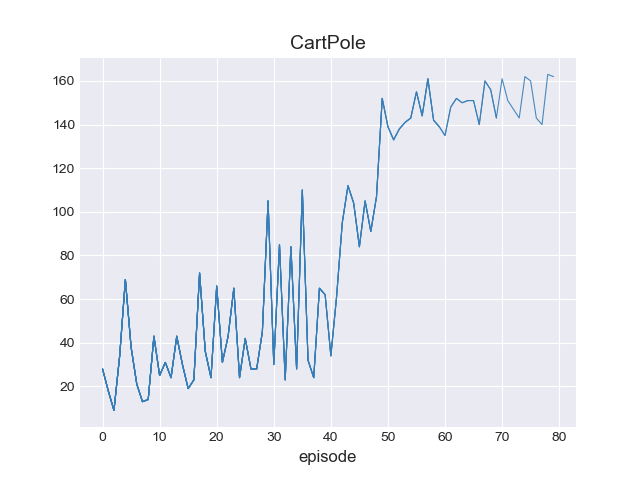
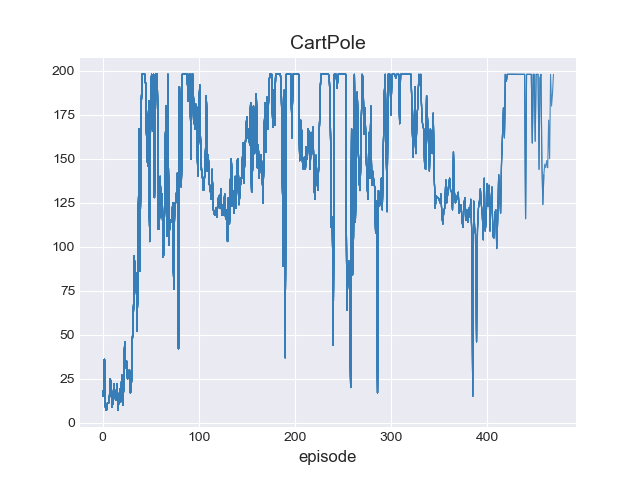
finish debugging cartpole

diff --git a/agent.py b/agent.py
@@ -1,4 +1,5 @@
 import torch
+import itertools
 from config import AgentConfig
 from memory import Memory
 from utils import plot_graph, save_weights
@@ -20,50 +21,70 @@ class Agent(AgentConfig):
         # A new episode
         while not solved:
             episode += 1
-            episode_length = 0
-            episode_reward = 0
-
+            episode_length, episode_reward = 0, 0
             self.memory.reset()
 
             # A step in an episode
             while not solved:
                 episode_length += 1
-
-                obs = torch.FloatTensor(self.memory.get_state()).to(device)
-                prob_a = self.policy_network.pi(obs)
-                reward, terminal = self.memory.step(prob_a)
+                reward, terminal = self.memory.step(self.policy_network.pi)
                 episode_reward += reward
 
                 if terminal:
                     reward_history.append(episode_reward)
                     self.finish_path(episode_length)
                     save_weights(self.policy_network)
-
                     solved = self.solve_criteria(reward_history)
                     print('episode: %.2f, last_episode length: %.2f, last_episode_reward: %.2f, '
                           'loss: %.4f, lr: %.4f' % (episode, episode_length, episode_reward, self.loss,
                                                     self.scheduler.get_lr()[0]))
+                    # print(self.memory.buffer)
+                    # print('len of memory', len(self.memory))
+                    # print('len of obs', len(self.memory.buffer['obs']))
                     break
 
             if episode % self.update_freq == 0:
                 for _ in range(self.k_epoch):
                     self.update_network()
+            # if episode == 1:
+            #     exit()
 
             if episode % self.plot_every == 0:
                 plot_graph(reward_history)
 
     def update_network(self):
-        # get ratio
-        pi = self.policy_network.pi(torch.FloatTensor(self.memory['state']).to(device))
-        new_probs_a = torch.gather(pi, 1, torch.tensor(self.memory['action']))
-        old_probs_a = torch.FloatTensor(self.memory['action_prob'])
-        ratio = torch.exp(torch.log(new_probs_a) - torch.log(old_probs_a))
+        start_idx, end_idx = 0, len(self.memory) if self.memory.step_count >= self.memory_size else self.memory.pointer
+        self.memory.align_length()
+        state = torch.FloatTensor(self.memory.get_state(start_idx=start_idx, end_idx=end_idx))
+        action = torch.LongTensor([self.memory.buffer['action'][i] for i in range(start_idx, end_idx)])
+        action_prob = torch.FloatTensor([self.memory.buffer['action_prob'][i] for i in range(start_idx, end_idx)])
+        # print(self.memory.buffer['advantage'])
+        advantage = torch.FloatTensor([self.memory.buffer['advantage'][i] for i in range(start_idx, end_idx)])
+        td_target = torch.FloatTensor([self.memory.buffer['td_target'][i] for i in range(start_idx, end_idx)])
+        # print('action shape', action.shape)
+        # print('len memory', len(self.memory))
+        # print('state shape', state.shape)
+        # print('td_target shape', self.memory.buffer['td_target'].shape)
+        # print(self.memory.buffer['terminal'])
+        # print('state', state)
 
+        # print('action', action)
+        # print('action_prob', action_prob)
+        # print('advantage', advantage)
+
+        # get ratio
+        pi = self.policy_network.pi(state)
+        new_probs_a = torch.gather(pi, 1, action)
+        old_probs_a = action_prob
+        ratio = torch.exp(torch.log(new_probs_a) - torch.log(old_probs_a))
+        # print(new_probs_a)
+        # print(old_probs_a)
+        # print(ratio)
         # surrogate loss
-        surr1 = ratio * torch.FloatTensor(self.memory['advantage'])
-        surr2 = torch.clamp(ratio, 1 - self.eps_clip, 1 + self.eps_clip) * torch.FloatTensor(self.memory['advantage'])
-        pred_v = self.policy_network.v(torch.FloatTensor(self.memory['state']).to(device))
-        v_loss = 0.5 * (pred_v - self.memory['td_target']).pow(2)  # Huber loss
+        surr1 = ratio * advantage
+        surr2 = torch.clamp(ratio, 1 - self.eps_clip, 1 + self.eps_clip) * advantage
+        pred_v = self.policy_network.v(state)
+        v_loss = 0.5 * (pred_v - td_target).pow(2)  # Huber loss
         entropy = torch.distributions.Categorical(pi).entropy()
         entropy = torch.tensor([[e] for e in entropy])
         self.loss = (-torch.min(surr1, surr2) + self.v_coef * v_loss - self.entropy_coef * entropy).mean()
@@ -73,23 +94,28 @@ class Agent(AgentConfig):
         self.optimizer.step()
         self.scheduler.step()
 
-    def finish_path(self, length):
-        reward = self.memory['reward'][-length:]
-        terminal = self.memory['terminal'][-length:]
+    def finish_path(self, episode_length):
+        # The information extracted includes start_idx but exclude end_idx
+        start_idx = self.memory.pointer - episode_length
+        end_idx = self.memory.pointer
 
-        if self.environment == 'CartPole-v0':
-            state = torch.FloatTensor(self.memory['state'][-length:-1])
-            next_state = torch.FloatTensor(self.memory['state'][-length + 1:])
-        else:
-            state = torch.FloatTensor([
-                self.stack_obs(idx) for idx in range(-length, -self.frame_stack)]
-            ).reshape(length - self.frame_stack, self.frame_stack, self.height, self.width)
-            next_state = torch.FloatTensor([
-                self.stack_obs(idx) for idx in range(-length + 1, -self.frame_stack + 1)]
-            ).reshape(length - self.frame_stack, self.frame_stack, self.height, self.width)
+        # print(f'in finish path, start_idx = {start_idx}. end_idx = {end_idx}')
 
-        td_target = torch.FloatTensor(reward) + \
-                    self.gamma * self.policy_network.v(next_state) * torch.FloatTensor(terminal)
+        reward = torch.FloatTensor([self.memory.buffer['reward'][i] for i in range(start_idx, end_idx)])
+        terminal = torch.FloatTensor([self.memory.buffer['terminal'][i] for i in range(start_idx, end_idx)])
+        state = torch.FloatTensor(self.memory.get_state(start_idx=start_idx, end_idx=end_idx))
+        next_state = torch.FloatTensor(self.memory.get_state(start_idx=start_idx, end_idx=end_idx, next_state=True))
+
+        # print('terminal shape', terminal.shape)
+        # print(self.memory.buffer)
+        # # print(self.memory.buffer['action'])
+        # print(state)
+        # print(next_state)
+        # print(len(self.memory))
+        # print('state shape', state.shape)
+        # print('next_state shape', next_state.shape)
+
+        td_target = reward + self.gamma * self.policy_network.v(next_state) * terminal
         delta = td_target - self.policy_network.v(state)
         delta = delta.detach().numpy()
 
@@ -101,11 +127,10 @@ class Agent(AgentConfig):
             advantages.append([adv])
         advantages.reverse()
 
-        if self.memory['td_target'].shape == torch.Size([1, 0]):
-            self.memory['td_target'] = td_target.data
-        else:
-            self.memory['td_target'] = torch.cat((self.memory['td_target'], td_target.data), dim=0)
-        self.memory['advantage'] += advantages
+        for i, j in zip(range(start_idx, end_idx), range(len(td_target.data))):
+            self.memory.buffer['td_target'][i] = td_target.data[j]
+            self.memory.buffer['advantage'][i] = advantages[j]
+        # self.memory.buffer['advantage'] += advantages
 
     def solve_criteria(self, reward_history):
         if self.environment == 'CartPole-v0':

diff --git a/memory.py b/memory.py
@@ -2,6 +2,7 @@ import gym
 import torch
 import cv2
 import numpy as np
+import itertools
 
 from PIL import Image
 from collections import deque
@@ -10,44 +11,80 @@ from collections import deque
 class Memory:
     def __init__(self, environment, memory_size, num_stack, frame_shape):
         self.buffer = {
-            'td_target': torch.FloatTensor([])
+            'td_target': torch.FloatTensor(np.zeros([memory_size, 1])),
+            'advantage': [[0] for _ in range(memory_size)]
         }
         buffer_keys = ['obs', 'action', 'reward', 'terminal', 'action_prob']
         for key in buffer_keys:
-            self.buffer[key] = deque(maxlen=memory_size)
+            self.buffer[key] = [0 for _ in range(memory_size)]
+        self.step_count = 0
+        self.pointer = 0
+        self.memory_size = memory_size
 
         self.env = gym.make(environment)
         self.num_stack = num_stack
         self.frame_shape = frame_shape
+        self.observation = []
 
-    def add_memory(self, s, a, r, t, prob):
-        self.buffer['obs'].append(s)
-        self.buffer['action'].append([a])
-        self.buffer['reward'].append([r])
-        self.buffer['terminal'].append([1 - t])
-        self.buffer['action_prob'].append(prob)
+    def __len__(self):
+        return len(self.buffer['action'])
 
-    def step(self, action_prob):
+    def align_length(self):
+        for key, value in self.buffer.items():
+            if not isinstance(value, deque):
+                self.buffer[key] = value[-self.__len__():]
+
+    def add_memory(self, obs, a, r, t, prob):
+        self.buffer['action'][self.pointer] = [a]
+        self.buffer['reward'][self.pointer] = [r]
+        self.buffer['terminal'][self.pointer] = [1 - t]
+        self.buffer['action_prob'][self.pointer] = [prob]
+        self.step_count += 1
+        self.pointer = (self.pointer + 1) % self.memory_size
+        self.buffer['obs'][self.pointer] = obs
+
+    def step(self, pi):
+        action_prob = pi(torch.FloatTensor(self.get_state()))
         action = torch.distributions.Categorical(action_prob).sample().item()
-        observation, reward, done, info = self.env.step(action)
+        new_obs, reward, done, info = self.env.step(action)
+        self.add_memory(new_obs, action, reward/10.0, done, action_prob.flatten()[action].item())
         reward = -1 if done else reward
-        self.add_memory(observation, action, reward/10.0, done, action_prob[action].item())
+        # if done:
+            # print('terminal!')
         return reward, done
 
     def reset(self):
-        observation = self.env.reset()
-        for _ in range(self.num_stack):
-            self.buffer['obs'].append(observation)
-        for i in self.buffer:
-            if isinstance(i, deque):
-                i.clear()
+        obs = self.env.reset()
+        self.buffer['obs'][self.pointer] = obs
 
-    def get_state(self, return_all=False):
-        start_idx = 3 if return_all else len(self.buffer['obs'])-1
+    def get_state(self, start_idx=None, end_idx=None, next_state=False):
+        obs_list = self.buffer['obs']
+
+        # Return specified slice of states. If not specified, return the last state.
+        start_idx = start_idx if start_idx is not None else self.pointer
+        end_idx = end_idx if end_idx is not None else self.pointer + 1
+
+        terminal_list = np.array(self.buffer['terminal'])
+        terminal_idx = terminal_list.reshape(terminal_list.shape[0])
         states = []
-        for i in range(start_idx, len(self.buffer['obs'])):
-            frames = self.buffer['obs'][i-(self.num_stack-1):i+1]
+        # print(f'start_idx {start_idx}, end_idx {end_idx}')
+        for i in range(start_idx, end_idx):
+            # Check whether the past (num_stack-1) obs involve terminal state.
+            past_obs_status = [terminal_idx[m] for m in range(i-self.num_stack+1, i)]
+            # print(past_obs_status)
+            # print(1 in past_obs_status)
+            # print(i)
+            first_frame_idx = i - self.num_stack + 1 + past_obs_status.index(1) if 1 in past_obs_status else \
+                i - self.num_stack + 1
+            # print('step count', self.step_count)
+            # print(first_frame_idx)
+            repeat_obs = obs_list[first_frame_idx]
+            num_repeat = past_obs_status.count(0)
+            frames = repeat_obs * num_repeat + [obs_list[x] for x in range(first_frame_idx, i+1)]
             states.append(self.process_state(frames))
+        states = states[0] if len(states) == 1 else states
+        states = states[1:] + [np.zeros(np.array(states[-1]).shape).tolist()] if next_state else states
+        # print(states)
         return states
 
     def process_state(self, frames):
@@ -61,8 +98,8 @@ class Memory:
                 state.append(frame)
                 # plt.imshow(frame)
                 # plt.show()
+            return np.asarray(state).reshape(self.num_stack, self.frame_shape[0], self.frame_shape[1])
         else:
-            state = frames
-        return np.asarray(state).reshape(self.num_stack, self.frame_shape[0], self.frame_shape[1])
+            return frames[0]
 
 

diff --git a/config.py b/config.py
@@ -12,7 +12,7 @@ class AgentConfig:
         self.gamma = 0.99
         self.plot_every = 10
         self.update_freq = 1
-        self.k_epoch = 3
+        self.k_epoch = 1
         self.learning_rate = 0.02
         self.lmbda = 0.95
         self.eps_clip = 0.2
@@ -21,15 +21,16 @@ class AgentConfig:
         self.memory_size = 400
         self.width = 84
         self.height = 84
-        self.num_stack = 4
-        self.frame_shape = [self.height, self.width]
 
         # Environment & Network
-        self.environment = 'Breakout-v0'
+        self.environment = 'CartPole-v0'
+        self.env = gym.make(self.environment)
         self.action_size = self.env.action_space.n
         self.observation_size = self.env.observation_space.shape[0]
         self.policy_network = MlpPolicy(self.action_size, self.observation_size).to(device) \
-            if self.environment == 'CartPole-v0' else CNNPolicy(self.action_size, self.frame_stack).to(device)
+            if self.environment == 'CartPole-v0' else CNNPolicy(self.action_size, self.num_stack).to(device)
+        self.frame_shape = [4] if self.environment == 'CartPole-v0' else (self.height, self.width)
+        self.num_stack = 1 if self.environment == 'CartPole-v0' else 4
 
         self.optimizer = optim.Adam(self.policy_network.parameters(), lr=self.learning_rate)
         self.scheduler = optim.lr_scheduler.StepLR(self.optimizer, step_size=self.k_epoch,

diff --git a/network.py b/network.py
@@ -41,7 +41,7 @@ class CNNPolicy(nn.Module):
         )
         self.linear = nn.Linear(3136, 512)
         self.fc_pi = nn.Linear(512, action_size)
-        self.fc_v = nn.Linear(512, action_size)
+        self.fc_v = nn.Linear(512, 1)
         self.softmax = nn.Softmax(dim=-1)
 
     def pi(self, x):
